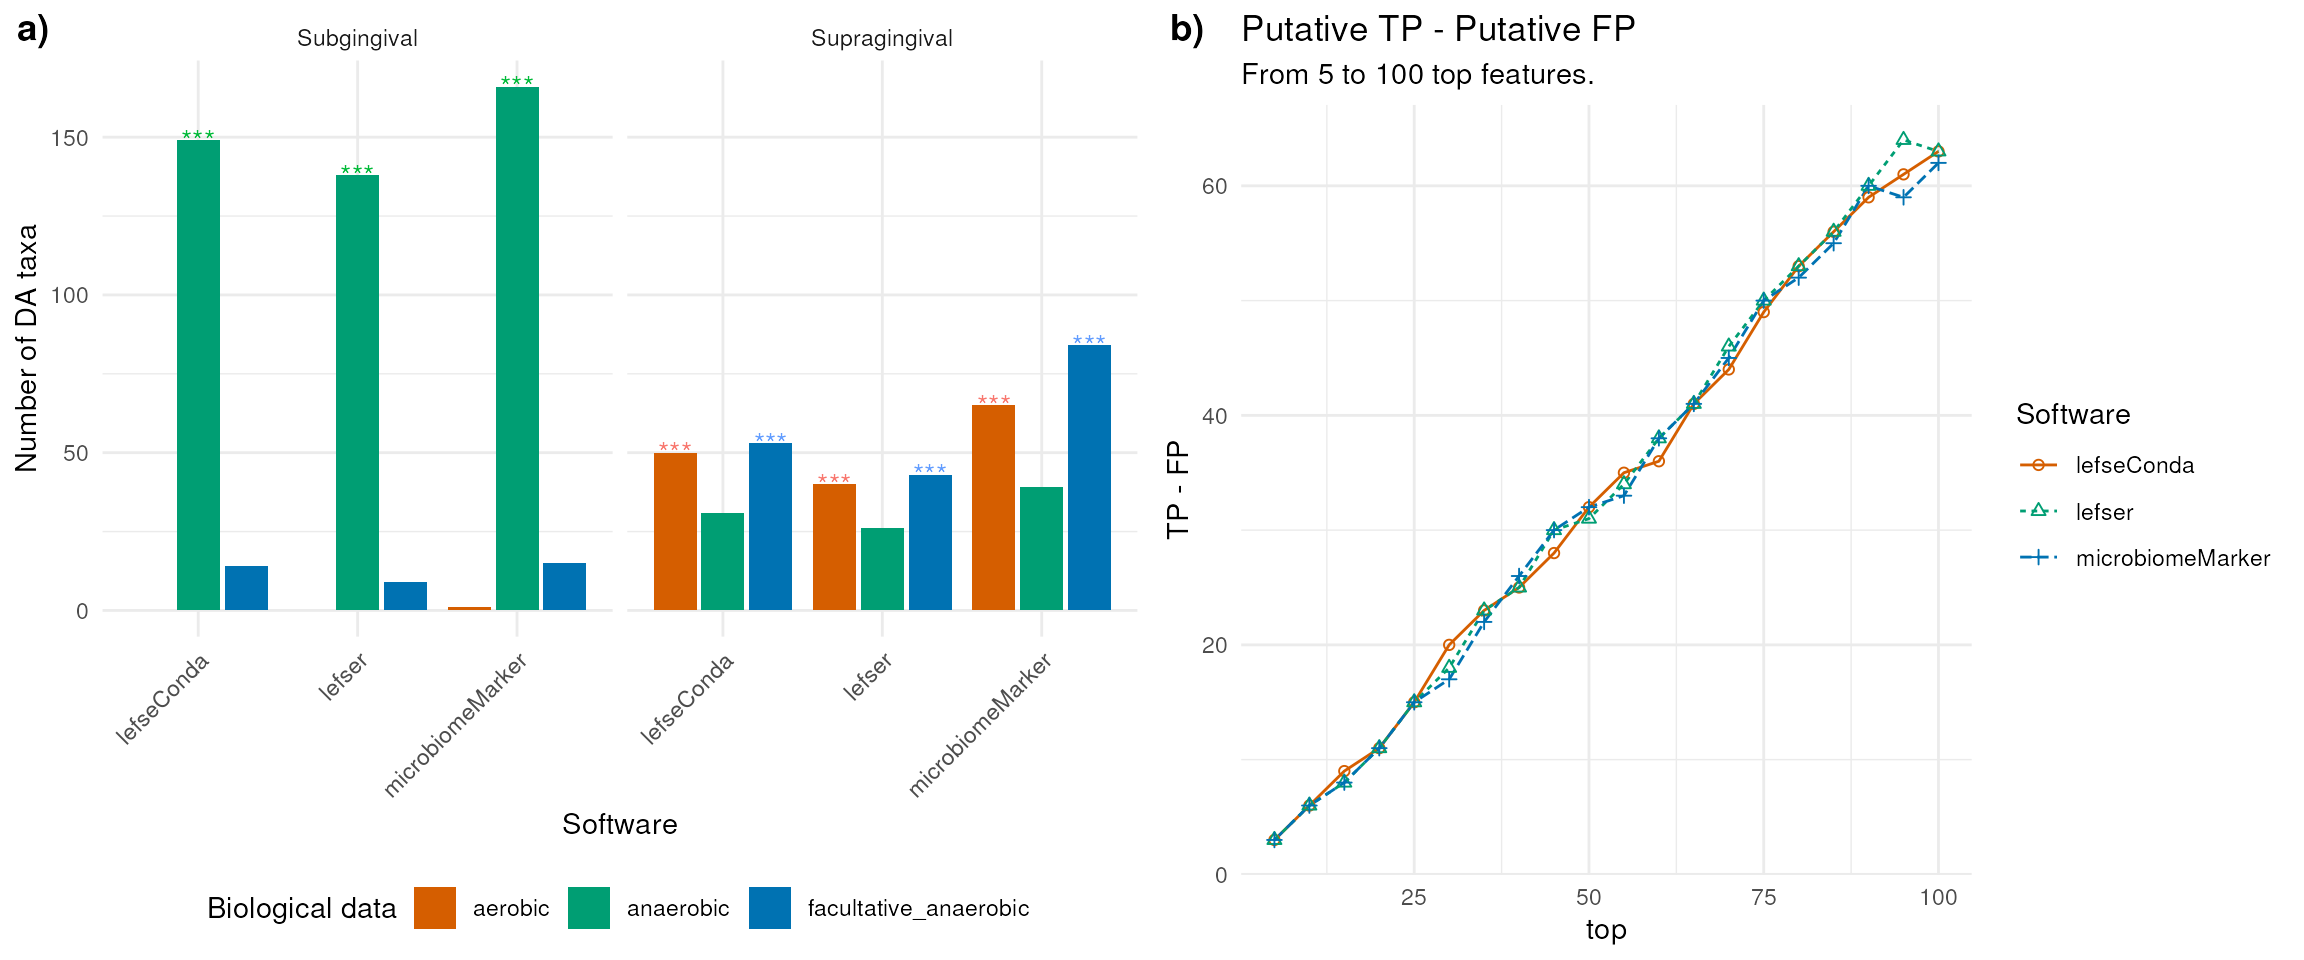
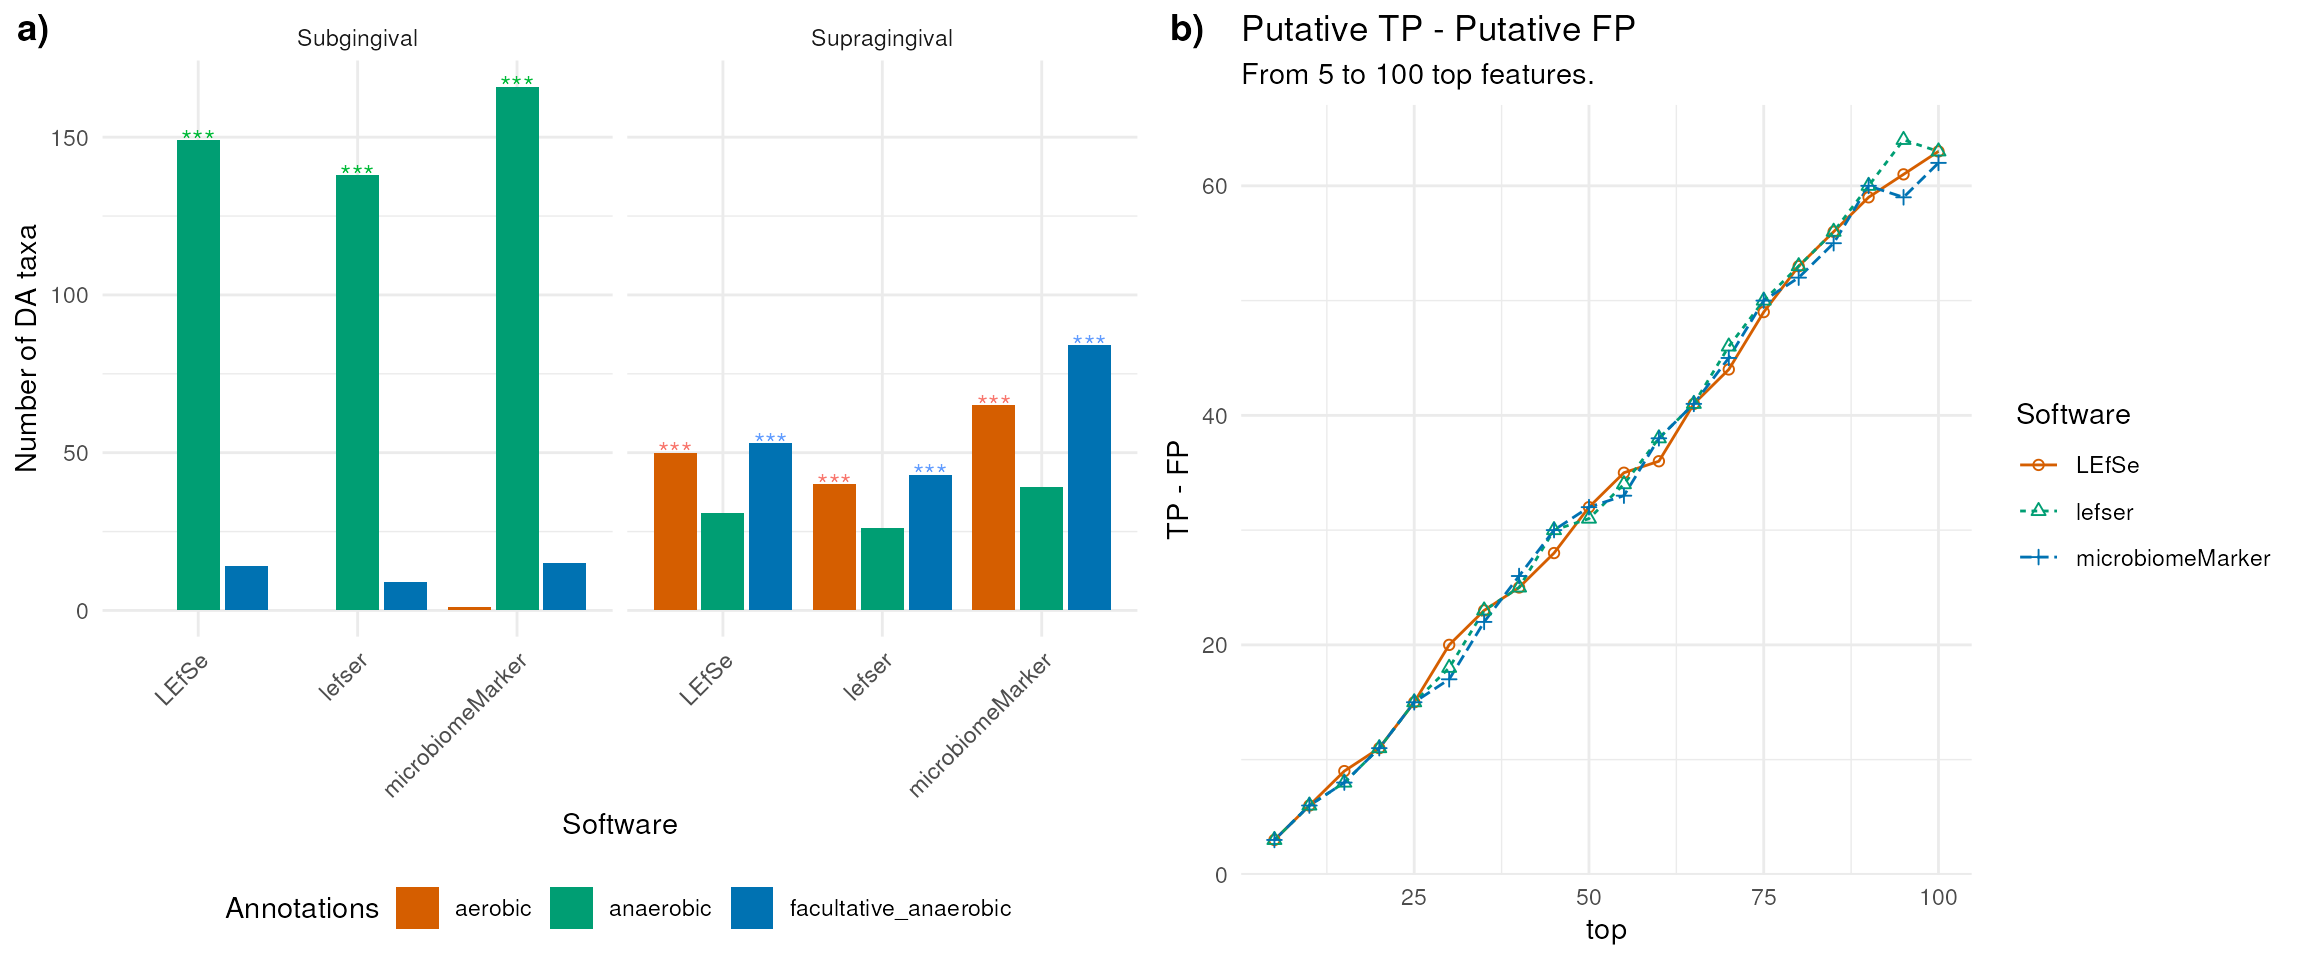
Deploying to gh-pages from @ waldronlab/MicrobiomeBenchmarkDataLefse@a38f5099f278a2b568299c3f8f6f282583e5eeec 🚀

diff --git a/articles/gingival_results.html b/articles/gingival_results.html
@@ -115,7 +115,7 @@
 <span><span class="fu"><a href="https://rdrr.io/r/base/names.html" class="external-link">names</a></span><span class="op">(</span><span class="va">fls</span><span class="op">)</span> <span class="op">&lt;-</span> <span class="fu"><a href="https://rdrr.io/r/base/list.files.html" class="external-link">list.files</a></span><span class="op">(</span><span class="va">tmpDir</span>, full.names <span class="op">=</span> <span class="cn">FALSE</span><span class="op">)</span></span></code></pre></div>
 <p>Read the data and make it uniform:</p>
 <div class="sourceCode" id="cb3"><pre class="downlit sourceCode r">
-<code class="sourceCode R"><span><span class="co">## Results from lefse-conda</span></span>
+<code class="sourceCode R"><span><span class="co">## Results from LEfSe (run in Docker)</span></span>
 <span><span class="va">lefseDat</span> <span class="op">&lt;-</span> <span class="fu"><a href="https://readr.tidyverse.org/reference/read_delim.html" class="external-link">read_tsv</a></span><span class="op">(</span></span>
 <span>    <span class="fu"><a href="https://rdrr.io/r/base/grep.html" class="external-link">grep</a></span><span class="op">(</span><span class="st">"\\.res"</span>, <span class="va">fls</span>, value <span class="op">=</span> <span class="cn">TRUE</span><span class="op">)</span>,</span>
 <span>    col_names <span class="op">=</span> <span class="fu"><a href="https://rdrr.io/r/base/c.html" class="external-link">c</a></span><span class="op">(</span><span class="st">"feature"</span>, <span class="st">"x"</span>, <span class="st">"sample"</span>, <span class="st">"lda"</span>, <span class="st">"rawP"</span><span class="op">)</span>,</span>
@@ -129,7 +129,7 @@
 <span>    <span class="fu"><a href="https://dplyr.tidyverse.org/reference/mutate.html" class="external-link">mutate</a></span><span class="op">(</span>rawP <span class="op">=</span> <span class="fu"><a href="https://rdrr.io/r/base/double.html" class="external-link">as.double</a></span><span class="op">(</span><span class="va">rawP</span><span class="op">)</span><span class="op">)</span> <span class="op">|&gt;</span> </span>
 <span>    <span class="fu"><a href="https://dplyr.tidyverse.org/reference/mutate.html" class="external-link">mutate</a></span><span class="op">(</span>adjP <span class="op">=</span> <span class="fu"><a href="https://rdrr.io/r/stats/p.adjust.html" class="external-link">p.adjust</a></span><span class="op">(</span><span class="va">rawP</span><span class="op">)</span><span class="op">)</span> <span class="op">|&gt;</span> </span>
 <span>    <span class="fu">dplyr</span><span class="fu">::</span><span class="fu"><a href="https://dplyr.tidyverse.org/reference/rename.html" class="external-link">rename</a></span><span class="op">(</span>enGrp <span class="op">=</span> <span class="va">sample</span><span class="op">)</span> <span class="op">|&gt;</span> </span>
-<span>    <span class="fu"><a href="https://dplyr.tidyverse.org/reference/mutate.html" class="external-link">mutate</a></span><span class="op">(</span>software <span class="op">=</span> <span class="st">"lefseConda"</span><span class="op">)</span> <span class="op">|&gt;</span> </span>
+<span>    <span class="fu"><a href="https://dplyr.tidyverse.org/reference/mutate.html" class="external-link">mutate</a></span><span class="op">(</span>software <span class="op">=</span> <span class="st">"LEfSe"</span><span class="op">)</span> <span class="op">|&gt;</span> </span>
 <span>    <span class="fu">tibble</span><span class="fu">::</span><span class="fu"><a href="https://tibble.tidyverse.org/reference/rownames.html" class="external-link">column_to_rownames</a></span><span class="op">(</span>var <span class="op">=</span> <span class="st">"feature"</span><span class="op">)</span> <span class="op">|&gt;</span> </span>
 <span>    <span class="fu"><a href="https://dplyr.tidyverse.org/reference/mutate.html" class="external-link">mutate</a></span><span class="op">(</span></span>
 <span>        lda <span class="op">=</span> <span class="fu"><a href="https://dplyr.tidyverse.org/reference/case_when.html" class="external-link">case_when</a></span><span class="op">(</span></span>
@@ -189,12 +189,12 @@
 <span>    <span class="fu"><a href="https://dplyr.tidyverse.org/reference/arrange.html" class="external-link">arrange</a></span><span class="op">(</span><span class="va">lda</span><span class="op">)</span></span>
 <span></span>
 <span><span class="va">DA</span> <span class="op">&lt;-</span> <span class="fu"><a href="https://rdrr.io/r/base/list.html" class="external-link">list</a></span><span class="op">(</span></span>
-<span>    lefseConda <span class="op">=</span> <span class="va">lefseDat</span>,</span>
+<span>    LEfSe <span class="op">=</span> <span class="va">lefseDat</span>,</span>
 <span>    lefser <span class="op">=</span> <span class="va">lefserDat</span>,</span>
 <span>    microbiomeMarker <span class="op">=</span> <span class="va">mmDat</span></span>
 <span><span class="op">)</span></span>
 <span><span class="fu"><a href="https://purrr.tidyverse.org/reference/map.html" class="external-link">map_int</a></span><span class="op">(</span><span class="va">DA</span>, <span class="va">nrow</span><span class="op">)</span></span>
-<span><span class="co">#&gt;       lefseConda           lefser microbiomeMarker </span></span>
+<span><span class="co">#&gt;            LEfSe           lefser microbiomeMarker </span></span>
 <span><span class="co">#&gt;              327              281              410</span></span></code></pre></div>
 </div>
 <div class="section level2">
@@ -257,10 +257,10 @@ workflow:</p>
 <span><span class="va">DA_output</span> <span class="op">&lt;-</span> <span class="fu"><a href="https://purrr.tidyverse.org/reference/map.html" class="external-link">map</a></span><span class="op">(</span><span class="va">DA</span>, <span class="va">createBenchObj</span><span class="op">)</span></span>
 <span><span class="fu"><a href="https://rdrr.io/r/utils/str.html" class="external-link">str</a></span><span class="op">(</span><span class="va">DA_output</span>, max.level <span class="op">=</span> <span class="fl">2</span><span class="op">)</span></span>
 <span><span class="co">#&gt; List of 3</span></span>
-<span><span class="co">#&gt;  $ lefseConda      :List of 3</span></span>
+<span><span class="co">#&gt;  $ LEfSe           :List of 3</span></span>
 <span><span class="co">#&gt;   ..$ pValMat :'data.frame': 327 obs. of  2 variables:</span></span>
 <span><span class="co">#&gt;   ..$ statInfo:'data.frame': 327 obs. of  5 variables:</span></span>
-<span><span class="co">#&gt;   ..$ name    : chr "lefseConda"</span></span>
+<span><span class="co">#&gt;   ..$ name    : chr "LEfSe"</span></span>
 <span><span class="co">#&gt;  $ lefser          :List of 3</span></span>
 <span><span class="co">#&gt;   ..$ pValMat :'data.frame': 281 obs. of  2 variables:</span></span>
 <span><span class="co">#&gt;   ..$ statInfo:'data.frame': 281 obs. of  5 variables:</span></span>
@@ -383,7 +383,7 @@ workflow:</p>
 <span>    <span class="op">)</span> <span class="op">+</span></span>
 <span>    <span class="fu"><a href="https://ggplot2.tidyverse.org/reference/facet_wrap.html" class="external-link">facet_wrap</a></span><span class="op">(</span><span class="op">~</span><span class="va">direction</span><span class="op">)</span> <span class="op">+</span></span>
 <span>    <span class="fu"><a href="https://ggplot2.tidyverse.org/reference/scale_manual.html" class="external-link">scale_fill_manual</a></span><span class="op">(</span></span>
-<span>        values <span class="op">=</span> <span class="va">cbfColors</span>, name <span class="op">=</span> <span class="st">"Biological data"</span></span>
+<span>        values <span class="op">=</span> <span class="va">cbfColors</span>, name <span class="op">=</span> <span class="st">"Annotations"</span></span>
 <span>    <span class="op">)</span> <span class="op">+</span></span>
 <span>    <span class="fu"><a href="https://ggplot2.tidyverse.org/reference/labs.html" class="external-link">labs</a></span><span class="op">(</span></span>
 <span>        x <span class="op">=</span> <span class="st">"Software"</span>, y <span class="op">=</span> <span class="st">"Number of DA taxa"</span></span>
@@ -425,7 +425,7 @@ workflow:</p>
 <span><span class="co">#&gt;  collate  en_US.UTF-8</span></span>
 <span><span class="co">#&gt;  ctype    en_US.UTF-8</span></span>
 <span><span class="co">#&gt;  tz       Etc/UTC</span></span>
-<span><span class="co">#&gt;  date     2024-09-18</span></span>
+<span><span class="co">#&gt;  date     2024-09-20</span></span>
 <span><span class="co">#&gt;  pandoc   3.2 @ /usr/bin/ (via rmarkdown)</span></span>
 <span><span class="co">#&gt; </span></span>
 <span><span class="co">#&gt; <span style="color: #00BBBB; font-weight: bold;">─ Packages ───────────────────────────────────────────────────────────────────</span></span></span>
@@ -701,8 +701,8 @@ workflow:</p>
 <span><span class="co">#&gt;  spatial                    7.3-17     <span style="color: #555555;">2023-07-20</span> <span style="color: #555555;">[2]</span> <span style="color: #555555;">CRAN (R 4.4.1)</span></span></span>
 <span><span class="co">#&gt;  spatstat.data              3.1-2      <span style="color: #555555;">2024-06-21</span> <span style="color: #555555;">[1]</span> <span style="color: #BB00BB; font-weight: bold;">RSPM (R 4.4.0)</span></span></span>
 <span><span class="co">#&gt;  spatstat.explore           3.3-2      <span style="color: #555555;">2024-08-21</span> <span style="color: #555555;">[1]</span> <span style="color: #BB00BB; font-weight: bold;">RSPM (R 4.4.0)</span></span></span>
-<span><span class="co">#&gt;  spatstat.geom              3.3-2      <span style="color: #555555;">2024-07-15</span> <span style="color: #555555;">[1]</span> <span style="color: #BB00BB; font-weight: bold;">RSPM (R 4.4.0)</span></span></span>
-<span><span class="co">#&gt;  spatstat.random            3.3-1      <span style="color: #555555;">2024-07-15</span> <span style="color: #555555;">[1]</span> <span style="color: #BB00BB; font-weight: bold;">RSPM (R 4.4.0)</span></span></span>
+<span><span class="co">#&gt;  spatstat.geom              3.3-3      <span style="color: #555555;">2024-09-18</span> <span style="color: #555555;">[1]</span> <span style="color: #BB00BB; font-weight: bold;">RSPM (R 4.4.0)</span></span></span>
+<span><span class="co">#&gt;  spatstat.random            3.3-2      <span style="color: #555555;">2024-09-18</span> <span style="color: #555555;">[1]</span> <span style="color: #BB00BB; font-weight: bold;">RSPM (R 4.4.0)</span></span></span>
 <span><span class="co">#&gt;  spatstat.sparse            3.1-0      <span style="color: #555555;">2024-06-21</span> <span style="color: #555555;">[1]</span> <span style="color: #BB00BB; font-weight: bold;">RSPM (R 4.4.0)</span></span></span>
 <span><span class="co">#&gt;  spatstat.univar            3.0-1      <span style="color: #555555;">2024-09-05</span> <span style="color: #555555;">[1]</span> <span style="color: #BB00BB; font-weight: bold;">RSPM (R 4.4.0)</span></span></span>
 <span><span class="co">#&gt;  spatstat.utils             3.1-0      <span style="color: #555555;">2024-08-17</span> <span style="color: #555555;">[1]</span> <span style="color: #BB00BB; font-weight: bold;">RSPM (R 4.4.0)</span></span></span>

diff --git a/articles/lefses.html b/articles/lefses.html
@@ -306,7 +306,7 @@ values = increased in supragingival plaque</p>
 <span><span class="co">#&gt;  collate  en_US.UTF-8</span></span>
 <span><span class="co">#&gt;  ctype    en_US.UTF-8</span></span>
 <span><span class="co">#&gt;  tz       Etc/UTC</span></span>
-<span><span class="co">#&gt;  date     2024-09-18</span></span>
+<span><span class="co">#&gt;  date     2024-09-20</span></span>
 <span><span class="co">#&gt;  pandoc   3.2 @ /usr/bin/ (via rmarkdown)</span></span>
 <span><span class="co">#&gt; </span></span>
 <span><span class="co">#&gt; <span style="color: #00BBBB; font-weight: bold;">─ Packages ───────────────────────────────────────────────────────────────────</span></span></span>
@@ -417,7 +417,7 @@ values = increased in supragingival plaque</p>
 <span><span class="co">#&gt;  knitr                             1.48       <span style="color: #555555;">2024-07-07</span> <span style="color: #555555;">[1]</span> <span style="color: #BB00BB; font-weight: bold;">RSPM (R 4.4.0)</span></span></span>
 <span><span class="co">#&gt;  lattice                           0.22-6     <span style="color: #555555;">2024-03-20</span> <span style="color: #555555;">[2]</span> <span style="color: #555555;">CRAN (R 4.4.1)</span></span></span>
 <span><span class="co">#&gt;  lazyeval                          0.2.2      <span style="color: #555555;">2019-03-15</span> <span style="color: #555555;">[1]</span> <span style="color: #BB00BB; font-weight: bold;">RSPM (R 4.4.0)</span></span></span>
-<span><span class="co">#&gt;  lefser                          * 1.15.8     <span style="color: #555555;">2024-09-18</span> <span style="color: #555555;">[1]</span> <span style="color: #BB00BB; font-weight: bold;">Github (waldronlab/lefser@0ca4811)</span></span></span>
+<span><span class="co">#&gt;  lefser                          * 1.15.9     <span style="color: #555555;">2024-09-20</span> <span style="color: #555555;">[1]</span> <span style="color: #BB00BB; font-weight: bold;">Github (waldronlab/lefser@4412c88)</span></span></span>
 <span><span class="co">#&gt;  libcoin                           1.0-10     <span style="color: #555555;">2023-09-27</span> <span style="color: #555555;">[1]</span> <span style="color: #BB00BB; font-weight: bold;">RSPM (R 4.4.0)</span></span></span>
 <span><span class="co">#&gt;  lifecycle                         1.0.4      <span style="color: #555555;">2023-11-07</span> <span style="color: #555555;">[1]</span> <span style="color: #BB00BB; font-weight: bold;">RSPM (R 4.4.0)</span></span></span>
 <span><span class="co">#&gt;  limma                             3.60.4     <span style="color: #555555;">2024-07-17</span> <span style="color: #555555;">[1]</span> <span style="color: #555555;">Bioconductor 3.19 (R 4.4.1)</span></span></span>
@@ -435,7 +435,7 @@ values = increased in supragingival plaque</p>
 <span><span class="co">#&gt;  mgcv                              1.9-1      <span style="color: #555555;">2023-12-21</span> <span style="color: #555555;">[2]</span> <span style="color: #555555;">CRAN (R 4.4.1)</span></span></span>
 <span><span class="co">#&gt;  mia                             * 1.12.0     <span style="color: #555555;">2024-04-30</span> <span style="color: #555555;">[1]</span> <span style="color: #555555;">Bioconductor 3.19 (R 4.4.1)</span></span></span>
 <span><span class="co">#&gt;  MicrobiomeBenchmarkData         * 1.6.0      <span style="color: #555555;">2024-05-02</span> <span style="color: #555555;">[1]</span> <span style="color: #555555;">Bioconductor 3.19 (R 4.4.1)</span></span></span>
-<span><span class="co">#&gt;  MicrobiomeBenchmarkDataAnalyses * 0.99.11    <span style="color: #555555;">2024-09-18</span> <span style="color: #555555;">[1]</span> <span style="color: #BB00BB; font-weight: bold;">Github (waldronlab/MicrobiomeBenchmarkDataAnalyses@19b473f)</span></span></span>
+<span><span class="co">#&gt;  MicrobiomeBenchmarkDataAnalyses * 0.99.11    <span style="color: #555555;">2024-09-20</span> <span style="color: #555555;">[1]</span> <span style="color: #BB00BB; font-weight: bold;">Github (waldronlab/MicrobiomeBenchmarkDataAnalyses@77d57d4)</span></span></span>
 <span><span class="co">#&gt;  microbiomeMarker                * 1.10.0     <span style="color: #555555;">2024-04-30</span> <span style="color: #555555;">[1]</span> <span style="color: #555555;">Bioconductor 3.19 (R 4.4.1)</span></span></span>
 <span><span class="co">#&gt;  minqa                             1.2.8      <span style="color: #555555;">2024-08-17</span> <span style="color: #555555;">[1]</span> <span style="color: #BB00BB; font-weight: bold;">RSPM (R 4.4.0)</span></span></span>
 <span><span class="co">#&gt;  modeltools                        0.2-23     <span style="color: #555555;">2020-03-05</span> <span style="color: #555555;">[1]</span> <span style="color: #BB00BB; font-weight: bold;">RSPM (R 4.4.0)</span></span></span>

diff --git a/articles/lefse_conda.html b/articles/lefse_conda.html
@@ -279,7 +279,7 @@ directory. Link: <a href="https://github.com/waldronlab/MicrobiomeBenchmarkDataL
 <span><span class="co">#&gt;  collate  en_US.UTF-8</span></span>
 <span><span class="co">#&gt;  ctype    en_US.UTF-8</span></span>
 <span><span class="co">#&gt;  tz       Etc/UTC</span></span>
-<span><span class="co">#&gt;  date     2024-09-18</span></span>
+<span><span class="co">#&gt;  date     2024-09-20</span></span>
 <span><span class="co">#&gt;  pandoc   3.2 @ /usr/bin/ (via rmarkdown)</span></span>
 <span><span class="co">#&gt; </span></span>
 <span><span class="co">#&gt; <span style="color: #00BBBB; font-weight: bold;">─ Packages ───────────────────────────────────────────────────────────────────</span></span></span>
@@ -307,7 +307,7 @@ directory. Link: <a href="https://github.com/waldronlab/MicrobiomeBenchmarkDataL
 <span><span class="co">#&gt;  knitr                          1.48       <span style="color: #555555;">2024-07-07</span> <span style="color: #555555;">[1]</span> <span style="color: #BB00BB; font-weight: bold;">RSPM (R 4.4.0)</span></span></span>
 <span><span class="co">#&gt;  lifecycle                      1.0.4      <span style="color: #555555;">2023-11-07</span> <span style="color: #555555;">[1]</span> <span style="color: #BB00BB; font-weight: bold;">RSPM (R 4.4.0)</span></span></span>
 <span><span class="co">#&gt;  magrittr                       2.0.3      <span style="color: #555555;">2022-03-30</span> <span style="color: #555555;">[1]</span> <span style="color: #BB00BB; font-weight: bold;">RSPM (R 4.4.0)</span></span></span>
-<span><span class="co">#&gt;  MicrobiomeBenchmarkDataLefse * <span style="color: #BB00BB; font-weight: bold;">0.0.0.9000</span> <span style="color: #555555;">2024-09-18</span> <span style="color: #555555;">[1]</span> <span style="color: #BB00BB; font-weight: bold;">local</span></span></span>
+<span><span class="co">#&gt;  MicrobiomeBenchmarkDataLefse * <span style="color: #BB00BB; font-weight: bold;">0.0.0.9000</span> <span style="color: #555555;">2024-09-20</span> <span style="color: #555555;">[1]</span> <span style="color: #BB00BB; font-weight: bold;">local</span></span></span>
 <span><span class="co">#&gt;  pillar                         1.9.0      <span style="color: #555555;">2023-03-22</span> <span style="color: #555555;">[1]</span> <span style="color: #BB00BB; font-weight: bold;">RSPM (R 4.4.0)</span></span></span>
 <span><span class="co">#&gt;  pkgconfig                      2.0.3      <span style="color: #555555;">2019-09-22</span> <span style="color: #555555;">[1]</span> <span style="color: #BB00BB; font-weight: bold;">RSPM (R 4.4.0)</span></span></span>
 <span><span class="co">#&gt;  pkgdown                        2.1.1      <span style="color: #555555;">2024-09-17</span> <span style="color: #555555;">[1]</span> <span style="color: #BB00BB; font-weight: bold;">RSPM (R 4.4.0)</span></span></span>
